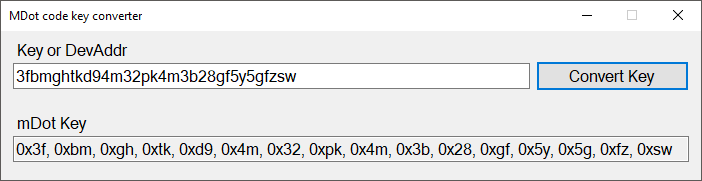
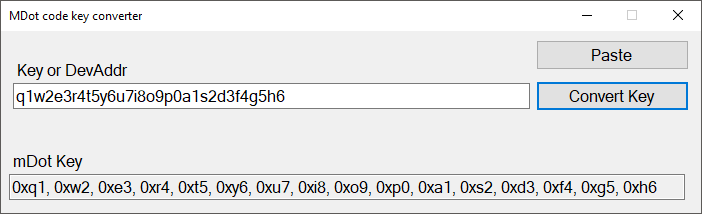
Added paste

diff --git a/KeyFormatter/KeyFormatterForMdot/KeyFormatterForMdot/Form1.Designer.cs b/KeyFormatter/KeyFormatterForMdot/KeyFormatterForMdot/Form1.Designer.cs
@@ -33,12 +33,13 @@
             this.label1 = new System.Windows.Forms.Label();
             this.label2 = new System.Windows.Forms.Label();
             this.button1 = new System.Windows.Forms.Button();
+            this.button2 = new System.Windows.Forms.Button();
             this.SuspendLayout();
             // 
             // textBoxServerKey
             // 
             this.textBoxServerKey.Font = new System.Drawing.Font("Microsoft Sans Serif", 12F, System.Drawing.FontStyle.Regular, System.Drawing.GraphicsUnit.Point, ((byte)(0)));
-            this.textBoxServerKey.Location = new System.Drawing.Point(12, 32);
+            this.textBoxServerKey.Location = new System.Drawing.Point(12, 52);
             this.textBoxServerKey.MaxLength = 32;
             this.textBoxServerKey.Name = "textBoxServerKey";
             this.textBoxServerKey.Size = new System.Drawing.Size(517, 26);
@@ -47,7 +48,7 @@
             // textBoxMDotKey
             // 
             this.textBoxMDotKey.Font = new System.Drawing.Font("Microsoft Sans Serif", 12F, System.Drawing.FontStyle.Regular, System.Drawing.GraphicsUnit.Point, ((byte)(0)));
-            this.textBoxMDotKey.Location = new System.Drawing.Point(12, 105);
+            this.textBoxMDotKey.Location = new System.Drawing.Point(8, 143);
             this.textBoxMDotKey.Name = "textBoxMDotKey";
             this.textBoxMDotKey.ReadOnly = true;
             this.textBoxMDotKey.Size = new System.Drawing.Size(676, 26);
@@ -57,7 +58,7 @@
             // 
             this.label1.AutoSize = true;
             this.label1.Font = new System.Drawing.Font("Microsoft Sans Serif", 12F, System.Drawing.FontStyle.Regular, System.Drawing.GraphicsUnit.Point, ((byte)(0)));
-            this.label1.Location = new System.Drawing.Point(12, 9);
+            this.label1.Location = new System.Drawing.Point(12, 29);
             this.label1.Name = "label1";
             this.label1.Size = new System.Drawing.Size(119, 20);
             this.label1.TabIndex = 2;
@@ -67,7 +68,7 @@
             // 
             this.label2.AutoSize = true;
             this.label2.Font = new System.Drawing.Font("Microsoft Sans Serif", 12F, System.Drawing.FontStyle.Regular, System.Drawing.GraphicsUnit.Point, ((byte)(0)));
-            this.label2.Location = new System.Drawing.Point(12, 82);
+            this.label2.Location = new System.Drawing.Point(8, 120);
             this.label2.Name = "label2";
             this.label2.Size = new System.Drawing.Size(78, 20);
             this.label2.TabIndex = 3;
@@ -76,7 +77,7 @@
             // button1
             // 
             this.button1.Font = new System.Drawing.Font("Microsoft Sans Serif", 12F, System.Drawing.FontStyle.Regular, System.Drawing.GraphicsUnit.Point, ((byte)(0)));
-            this.button1.Location = new System.Drawing.Point(535, 30);
+            this.button1.Location = new System.Drawing.Point(535, 50);
             this.button1.Name = "button1";
             this.button1.Size = new System.Drawing.Size(153, 30);
             this.button1.TabIndex = 4;
@@ -84,11 +85,23 @@
             this.button1.UseVisualStyleBackColor = true;
             this.button1.Click += new System.EventHandler(this.button1_Click);
             // 
+            // button2
+            // 
+            this.button2.Font = new System.Drawing.Font("Microsoft Sans Serif", 12F, System.Drawing.FontStyle.Regular, System.Drawing.GraphicsUnit.Point, ((byte)(0)));
+            this.button2.Location = new System.Drawing.Point(535, 9);
+            this.button2.Name = "button2";
+            this.button2.Size = new System.Drawing.Size(153, 30);
+            this.button2.TabIndex = 5;
+            this.button2.Text = "Paste";
+            this.button2.UseVisualStyleBackColor = true;
+            this.button2.Click += new System.EventHandler(this.button2_Click);
+            // 
             // Form1
             // 
             this.AutoScaleDimensions = new System.Drawing.SizeF(6F, 13F);
             this.AutoScaleMode = System.Windows.Forms.AutoScaleMode.Font;
-            this.ClientSize = new System.Drawing.Size(700, 149);
+            this.ClientSize = new System.Drawing.Size(700, 182);
+            this.Controls.Add(this.button2);
             this.Controls.Add(this.button1);
             this.Controls.Add(this.label2);
             this.Controls.Add(this.label1);
@@ -111,6 +124,7 @@
         private System.Windows.Forms.Label label1;
         private System.Windows.Forms.Label label2;
         private System.Windows.Forms.Button button1;
+        private System.Windows.Forms.Button button2;
     }
 }
 

diff --git a/KeyFormatter/KeyFormatterForMdot/KeyFormatterForMdot/Form1.cs b/KeyFormatter/KeyFormatterForMdot/KeyFormatterForMdot/Form1.cs
@@ -17,6 +17,7 @@ namespace KeyFormatterForMdot
             InitializeComponent();
         }
 
+        //runs conversion
         private void button1_Click(object sender, EventArgs e)
         {
             //pull value
@@ -27,6 +28,13 @@ namespace KeyFormatterForMdot
 
             //set output
             textBoxMDotKey.Text = resultKey;
+        }
+
+        //pastes from clipboard to textbox if possible
+        private void button2_Click(object sender, EventArgs e)
+        {
+            if (Clipboard.ContainsText())
+                textBoxServerKey.Text = Clipboard.GetText();
         }
     }
 }
